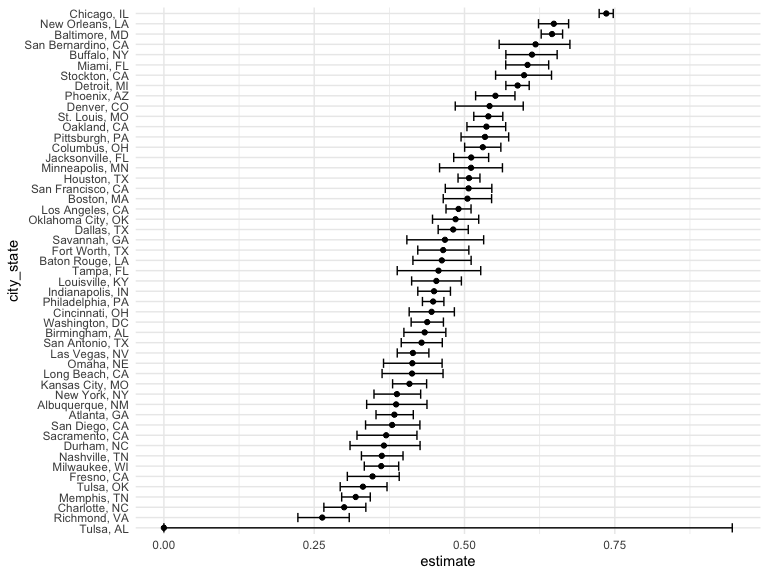
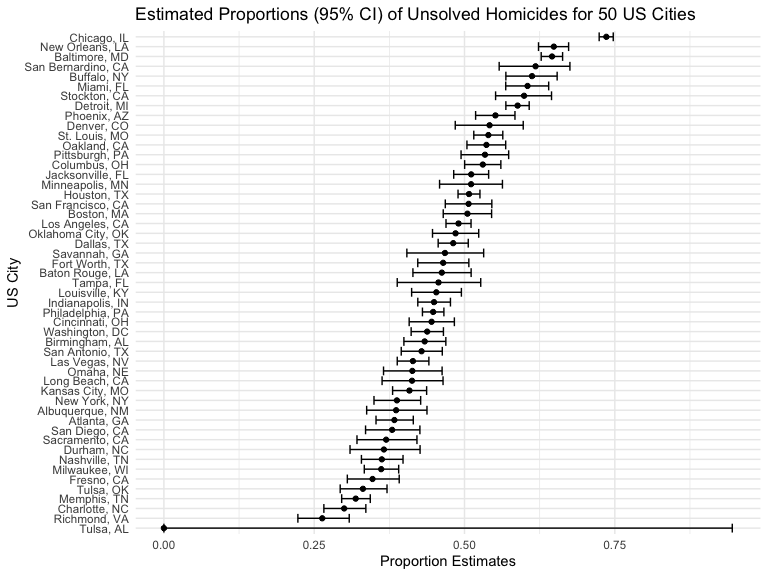
final commit with problem 3 finished plots, and added a note about Tulsa, AL in the city analysis.

diff --git a/p8105_hw5_kpp2126.md b/p8105_hw5_kpp2126.md
@@ -1,45 +1,20 @@
----
-title: "p8105_hw5_kpp2126"
-author: "Kevin P. Patterson"
-date: "2022-11-13"
-output: github_document
----
-
-```{r setup, include=FALSE}
-library(tidyverse)
-library(p8105.datasets)
-library(viridis)
-library(ggplot2)
-library(patchwork)
-library(dplyr)
-
-knitr::opts_chunk$set(
-	echo = TRUE,
-	warning = FALSE,
-	fig.width = 8, 
-  fig.height = 6,
-  out.width = "90%"
-)
-
-options(
-  ggplot2.continuous.colour = "viridis",
-  ggplot2.continuous.fill = "viridis"
-)
-
-scale_colour_discrete = scale_colour_viridis_d
-scale_fill_discrete = scale_fill_viridis_d
-
-theme_set(theme_minimal() + theme(legend.position = "bottom"))
-
-```
+p8105_hw5_kpp2126
+================
+Kevin P. Patterson
+2022-11-13
 
 ## Problem 1
-1. Create a tidy dataframe containing data from all participants, including the subject ID, arm, and observations over time
-*Start with a dataframe containing all file names; the `list.files` function will help
-Iterate over file names and read in data for each subject using `purrr::map` and saving the result as a new variable in the dataframe
-*Tidy the result; manipulate file names to include control arm and subject ID, make sure weekly observations are “tidy”, and do any other tidying that’s necessary
 
-```{r load, tidy data, warning=FALSE, message=FALSE}
+1.  Create a tidy dataframe containing data from all participants,
+    including the subject ID, arm, and observations over time *Start
+    with a dataframe containing all file names; the `list.files`
+    function will help Iterate over file names and read in data for each
+    subject using `purrr::map` and saving the result as a new variable
+    in the dataframe *Tidy the result; manipulate file names to include
+    control arm and subject ID, make sure weekly observations are
+    “tidy”, and do any other tidying that’s necessary
+
+``` r
 longitudinal_df = 
   tibble(
     files = list.files("./data/p1_data/"), #listing the "./" method due to inability to read with "/data" alone
@@ -63,8 +38,10 @@ longtidy_df =
   select(group, subj = files, week, outcome)
 ```
 
-2. Make a spaghetti plot showing observations on each subject over time, and comment on differences between groups.
-```{r}
+2.  Make a spaghetti plot showing observations on each subject over
+    time, and comment on differences between groups.
+
+``` r
 spaghetti_plot = longtidy_df %>% 
   ggplot(aes(x = week, y = outcome, group = subj, color = group)) + 
   geom_point() + 
@@ -73,18 +50,29 @@ spaghetti_plot = longtidy_df %>%
 spaghetti_plot
 ```
 
+<img src="p8105_hw5_kpp2126_files/figure-gfm/unnamed-chunk-1-1.png" width="90%" />
+
 ## Problem 2
 
-```{r load raw data, message=FALSE}
+``` r
 rawhom_df =
   read_csv("data/homicide_data.csv")
 ```
-1. Describe the raw data. 
-The resulting `rawhom_df` raw dataframe has `r nrow(rawhom_df)` observations and `r ncol(rawhom_df)` variables. These `r ncol(rawhom_df)` variables detail individual homicide demographic information such as `uid`, `reported_date`, victim's first and last name, race, age, sex, city, state, location indicators latitude & longitude, and disposition. 
 
-2. Create a `city_state` variable (e.g. “Baltimore, MD”) using `mutate` and then;
-3. `Summarize` within cities to obtain the total number of homicides and the number of unsolved homicides (those for which the disposition is “Closed without arrest” or “Open/No arrest”).
-```{r tidy data}
+1.  Describe the raw data. The resulting `rawhom_df` raw dataframe has
+    52179 observations and 12 variables. These 12 variables detail
+    individual homicide demographic information such as `uid`,
+    `reported_date`, victim’s first and last name, race, age, sex, city,
+    state, location indicators latitude & longitude, and disposition.
+
+2.  Create a `city_state` variable (e.g. “Baltimore, MD”) using `mutate`
+    and then;
+
+3.  `Summarize` within cities to obtain the total number of homicides
+    and the number of unsolved homicides (those for which the
+    disposition is “Closed without arrest” or “Open/No arrest”).
+
+``` r
 tidyhom_df = rawhom_df %>%
   mutate(city_state = str_c(city, state, sep = ", "), #create city_state variable
          disposition = ifelse(disposition %in% c("Closed without arrest", "Open/No arrest"), "unsolved", disposition)) %>% #create unsolved vs Closed by arrest distinction within the disposition variable
@@ -102,10 +90,23 @@ tidyhom_df = tidyhom_df %>%
 knitr::kable(head(tidyhom_df[, 1:3]), "simple") #Tulsa, AL is an error showing 1 homicide and 0 unsolved.
 ```
 
+| city_state       | total_homicides | unsolved_homicides |
+|:-----------------|----------------:|-------------------:|
+| Chicago, IL      |            5535 |               4073 |
+| Philadelphia, PA |            3037 |               1360 |
+| Houston, TX      |            2942 |               1493 |
+| Baltimore, MD    |            2827 |               1825 |
+| Detroit, MI      |            2519 |               1482 |
+| Los Angeles, CA  |            2257 |               1106 |
 
-4. For the city of Baltimore, MD, use the `prop.test` function to estimate the proportion of homicides that are unsolved; 
-- save the output of prop.test as an R object, apply the `broom::tidy` to this object and pull the estimated proportion and confidence intervals from the resulting tidy dataframe.
-```{r prop test Baltimore}
+4.  For the city of Baltimore, MD, use the `prop.test` function to
+    estimate the proportion of homicides that are unsolved;
+
+-   save the output of prop.test as an R object, apply the `broom::tidy`
+    to this object and pull the estimated proportion and confidence
+    intervals from the resulting tidy dataframe.
+
+``` r
 estimate = 
   prop.test(
   tidyhom_df %>%
@@ -118,11 +119,24 @@ estimate =
 broom::tidy(estimate)
 ```
 
-The estimated proportion (95% CI) of homicides that are unsolved for the city of Baltimore, MD is `r round(estimate$estimate, digits=3)` (`r round(estimate$conf.int[1], digits=3)`, `r round(estimate$conf.int[2], digits=3)`).
+    ## # A tibble: 1 × 8
+    ##   estimate statistic  p.value parameter conf.low conf.high method        alter…¹
+    ##      <dbl>     <dbl>    <dbl>     <int>    <dbl>     <dbl> <chr>         <chr>  
+    ## 1    0.646      239. 6.46e-54         1    0.628     0.663 1-sample pro… two.si…
+    ## # … with abbreviated variable name ¹alternative
 
-5. Now run `prop.test` for each of the cities in your dataset, and extract both the proportion of unsolved homicides and the confidence interval for each. 
-- Do this within a “tidy” pipeline, making use of `purrr::map`, `purrr::map2`, list columns and `unnest` as necessary to create a tidy dataframe with estimated proportions and CIs for each city.
-```{r prop test cities}
+The estimated proportion (95% CI) of homicides that are unsolved for the
+city of Baltimore, MD is 0.646 (0.628, 0.663).
+
+5.  Now run `prop.test` for each of the cities in your dataset, and
+    extract both the proportion of unsolved homicides and the confidence
+    interval for each.
+
+-   Do this within a “tidy” pipeline, making use of `purrr::map`,
+    `purrr::map2`, list columns and `unnest` as necessary to create a
+    tidy dataframe with estimated proportions and CIs for each city.
+
+``` r
 tidycity_df =
   tidyhom_df %>%
   mutate(
@@ -135,8 +149,12 @@ tidycity_df =
   arrange(desc(estimate))
 ```
 
-6. Create a plot that shows the estimates and CIs for each city – check out geom_errorbar for a way to add error bars based on the upper and lower limits. Organize cities according to the proportion of unsolved homicides.
-```{r plot}
+6.  Create a plot that shows the estimates and CIs for each city – check
+    out geom_errorbar for a way to add error bars based on the upper and
+    lower limits. Organize cities according to the proportion of
+    unsolved homicides.
+
+``` r
 tidycity_df %>%
   mutate(city_state = fct_reorder(city_state, estimate)) %>%
   ggplot(aes(x = estimate, y = city_state)) +
@@ -149,18 +167,25 @@ tidycity_df %>%
   )
 ```
 
+<img src="p8105_hw5_kpp2126_files/figure-gfm/plot-1.png" width="90%" />
+
 ## Problem 3
 
-1. First set the following design elements:
-- Fix n=30
-- Fix σ=5
-- Set μ=0. 
+1.  First set the following design elements:
 
-2. Generate 5000 datasets from the model
-- x∼Normal[μ,σ]
-- For each dataset, save μ̂  and the p-value arising from a test of H:μ=0 using α=0.05
-- Hint: to obtain the estimate and p-value, use broom::tidy to clean the output of t.test.
-```{r fixed elements}
+-   Fix n=30
+-   Fix σ=5
+-   Set μ=0.
+
+2.  Generate 5000 datasets from the model
+
+-   x∼Normal\[μ,σ\]
+-   For each dataset, save μ̂ and the p-value arising from a test of
+    H:μ=0 using α=0.05
+-   Hint: to obtain the estimate and p-value, use broom::tidy to clean
+    the output of t.test.
+
+``` r
 set.seed(1) #setting the seed here for reproducibility
 
 #(1) create function
@@ -191,9 +216,9 @@ for (i in 1:5000) {
 sim_5000_results = bind_rows(output)
 ```
 
+3.  Repeat the above for μ={1,2,3,4,5,6}, and complete the following:
 
-3. Repeat the above for μ={1,2,3,4,5,6}, and complete the following:
-```{r iteration for 1:6}
+``` r
 sim_six_test =
   tibble(
     mu = c(1, 2, 3, 4, 5, 6)) %>% 
@@ -206,8 +231,11 @@ sim_six_test =
 #sim_six_test
 ```
 
-- Make a plot showing the proportion of times the null was rejected (the power of the test) on the y axis and the true value of μ on the x axis. 
-```{r plot prop null rejected}
+-   Make a plot showing the proportion of times the null was rejected
+    (the power of the test) on the y axis and the true value of μ on the
+    x axis.
+
+``` r
 plot_power = 
   sim_six_test %>% 
   filter(p_value < 0.05) %>% #showing only when null was rejected
@@ -226,11 +254,17 @@ plot_power =
   )
 plot_power
 ```
-- Describe the association between effect size and power.
-The `plot_power` illustrates that as the true mu increases (effect size) the power of rejecting the null hypothesis also increases. We see that the power reaches a threshold near 1 as the true mu = 4.
 
-- Make a plot showing the average estimate of μ̂  on the y axis and the true value of μ on the x axis
-```{r}
+<img src="p8105_hw5_kpp2126_files/figure-gfm/plot prop null rejected-1.png" width="90%" /> -
+Describe the association between effect size and power. The `plot_power`
+illustrates that as the true mu increases (effect size) the power of
+rejecting the null hypothesis also increases. We see that the power
+reaches a threshold near 1 as the true mu = 4.
+
+-   Make a plot showing the average estimate of μ̂ on the y axis and the
+    true value of μ on the x axis
+
+``` r
 plot1 = 
   sim_six_test %>% 
   group_by(mu) %>% 
@@ -248,8 +282,13 @@ plot1 =
 plot1
 ```
 
-- Make a second plot (or overlay on the first) the average estimate of μ̂  only in samples for which the null was rejected on the y axis and the true value of μ on the x axis.
-```{r}
+<img src="p8105_hw5_kpp2126_files/figure-gfm/unnamed-chunk-2-1.png" width="90%" />
+
+-   Make a second plot (or overlay on the first) the average estimate of
+    μ̂ only in samples for which the null was rejected on the y axis and
+    the true value of μ on the x axis.
+
+``` r
 plot2 =
   sim_six_test %>% 
   filter(p_value < 0.05) %>% 
@@ -268,11 +307,22 @@ plot2 =
 plot2
 ```
 
+<img src="p8105_hw5_kpp2126_files/figure-gfm/unnamed-chunk-3-1.png" width="90%" />
+
 **combined plots**
-```{r combined for visualization}
+
+``` r
 plot1 + plot2
 ```
 
-- Is the sample average of μ̂  across tests for which the null is rejected approximately equal to the true value of μ? Why or why not?
-Similar to the trend taking place in the "Power of the test" plot, we see here that as the true mu increases there is better fit between true mu and mu_hat. For mu ~3 or larger the two plots are relatively equal because the power of the test increases when the effect size increases.For values below 3, the sample average of mu_hat for tests that result in the null being rejected are not great approximation estimates of the true mu.
+<img src="p8105_hw5_kpp2126_files/figure-gfm/combined for visualization-1.png" width="90%" />
 
+-   Is the sample average of μ̂ across tests for which the null is
+    rejected approximately equal to the true value of μ? Why or why not?
+    Similar to the trend taking place in the “Power of the test” plot,
+    we see here that as the true mu increases there is better fit
+    between true mu and mu_hat. For mu \~3 or larger the two plots are
+    relatively equal because the power of the test increases when the
+    effect size increases.For values below 3, the sample average of
+    mu_hat for tests that result in the null being rejected are not
+    great approximation estimates of the true mu.
